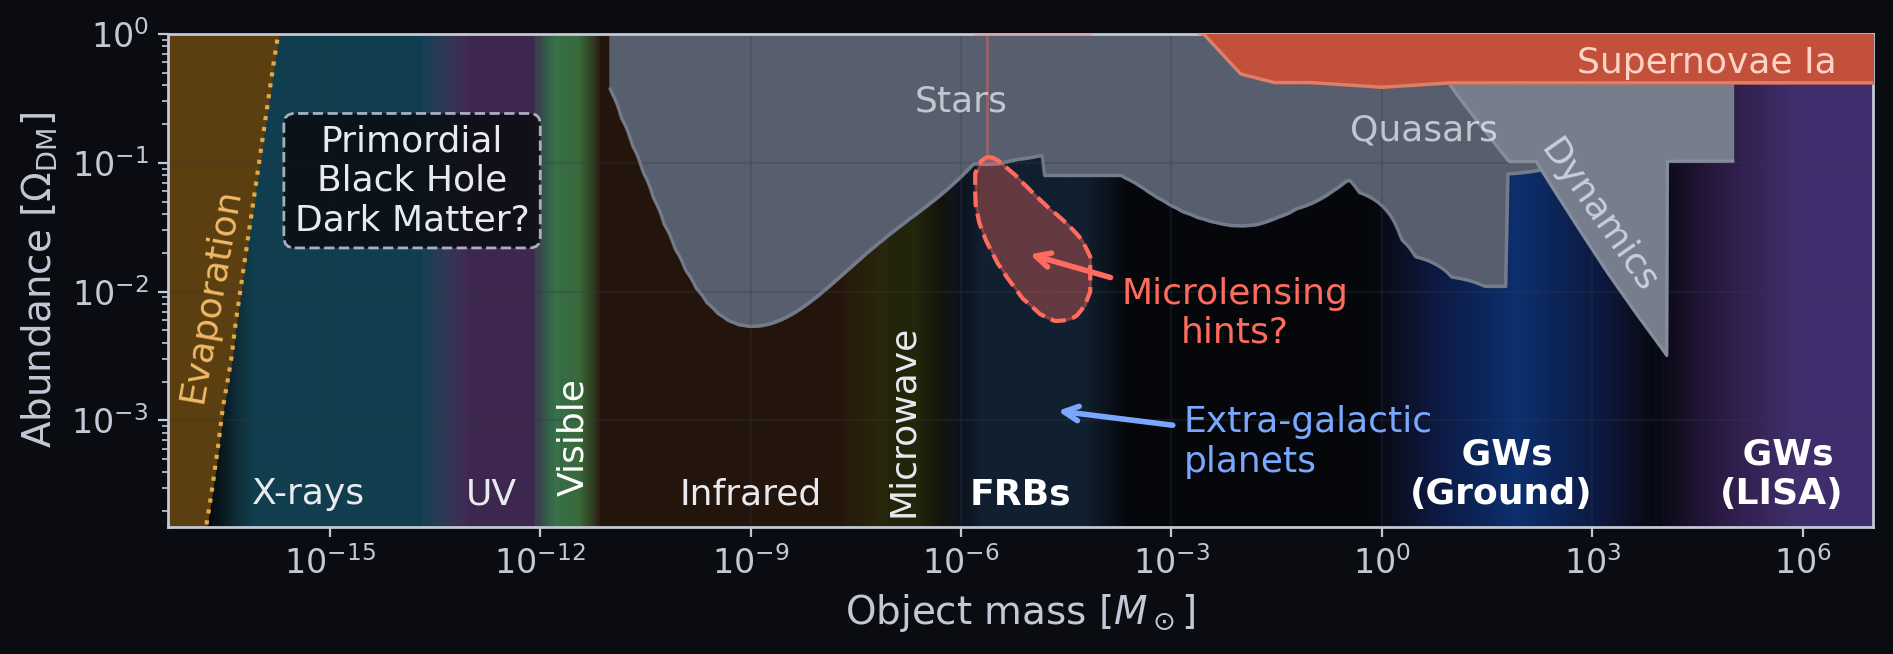
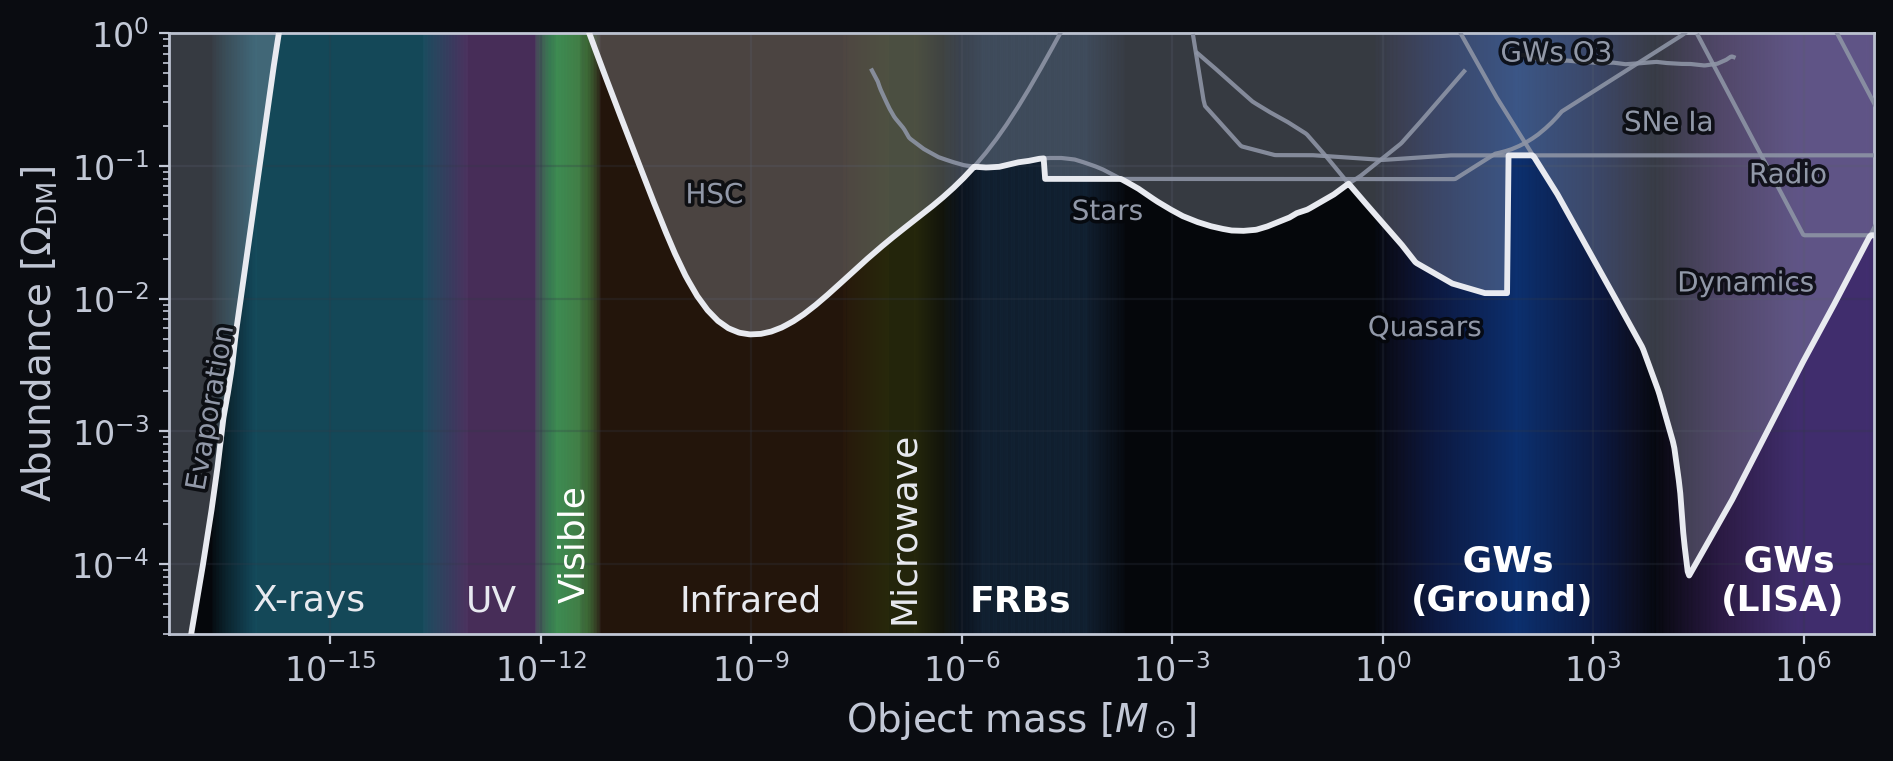
Take the v2 dark-matter constraint figure
FIGURES.md calls DM_WO_v2 the current version and keeps DM_WO as the previous
generation, and the reason it gives is exactly what this page needed: v2 draws
one envelope -- the strongest limit at each mass -- with the excluded region
shaded above it, where the old figure shaded every bound separately and left
the reader to work out which curve actually bounded the allowed region.

So the caption can now make a claim it could not make before: what is left
below the envelope is what remains possible, and around 10^-9 and again above a
solar mass that is a per-cent-level fraction of the dark matter. It also notes
that gravitational waves already supply one of these limits, from O3, which the
old version did not label.

Taken at the default text level. _clean and _full exist; the provenance comment
in the page records all three, since an inline figure has no `source` field the
way a topics.yml opener does.

Height goes 654 -> 761, so the reserved space is updated with it. Two things the
old figure had are gone from v2 by design and are gone from the caption too: the
OGLE microlensing hint and the "Primordial Black Hole Dark Matter?" box.

Review document regenerated.

diff --git a/dark-matter.html b/dark-matter.html
@@ -32,18 +32,27 @@ topic_id: dark-matter
     smaller than the telescope can resolve.
   </p>
 
+  {%- comment -%}
+    application_plots, plots/dm_forecasts/DM_WO_v2 (utils/pbh_em_panel.py).
+    The v2 idiom is what makes it usable here: one envelope line for the
+    strongest limit at each mass, rather than a stack of separately shaded
+    bounds that leaves the reader to work out which one actually bounds the
+    allowed region. Two other text levels exist, _clean and _full.
+  {%- endcomment -%}
   <figure class="topic-figure">
     <img src="{{ '/media/dm-constraints.png' | relative_url }}"
-         width="1893" height="654" loading="lazy"
-         alt="Fraction of dark matter in compact objects against object mass, from 10 to the minus 18 up to 10 to the 7 solar masses. Shaded regions marked stars, quasars, dynamics and supernovae are excluded. Coloured bands along the bottom label which messenger probes which mass range: X-rays through visible and infrared to FRBs, ground-based gravitational waves and LISA.">
+         width="1893" height="761" loading="lazy"
+         alt="Fraction of dark matter in compact objects against object mass, from 10 to the minus 18 up to 10 to the 7 solar masses. Thin grey lines are individual limits, each labelled — evaporation, HSC, stars, quasars, gravitational waves from O3, supernovae, radio and dynamics. A single bright line traces the strongest limit at each mass, with everything above it shaded as excluded. Coloured bands along the bottom label which messenger reaches which mass range, from X-rays through visible and infrared to FRBs, ground-based gravitational waves and LISA.">
     <figcaption>
-      How much of the dark matter could be compact objects of a given mass. The
-      shaded regions are already excluded by observations — starlight, quasars,
-      stellar dynamics, and the brightnesses of distant supernovae. The coloured
-      bands underneath say which kind of signal reaches which mass: each is set
-      by its own wavelength, which is why coherent sources open decades that no
-      light-based probe covers. Ground-based gravitational waves and LISA sit at
-      the right-hand end, and the FRB band in the middle.
+      How much of the dark matter could be compact objects of a given mass.
+      Each thin grey line is one limit, from a different observation; the bright
+      line running across them is the envelope — the strongest constraint at
+      every mass — and everything above it is ruled out. What is left below is
+      what remains possible, and it is not small: around 10<sup>−9</sup> and
+      again above a solar mass, a per-cent-level fraction of the dark matter
+      could still be compact objects. The coloured bands underneath say which
+      signal reaches which mass, each set by its own wavelength. Gravitational
+      waves already contribute one of these limits, from the O3 observing run.
     </figcaption>
   </figure>
 </section>
